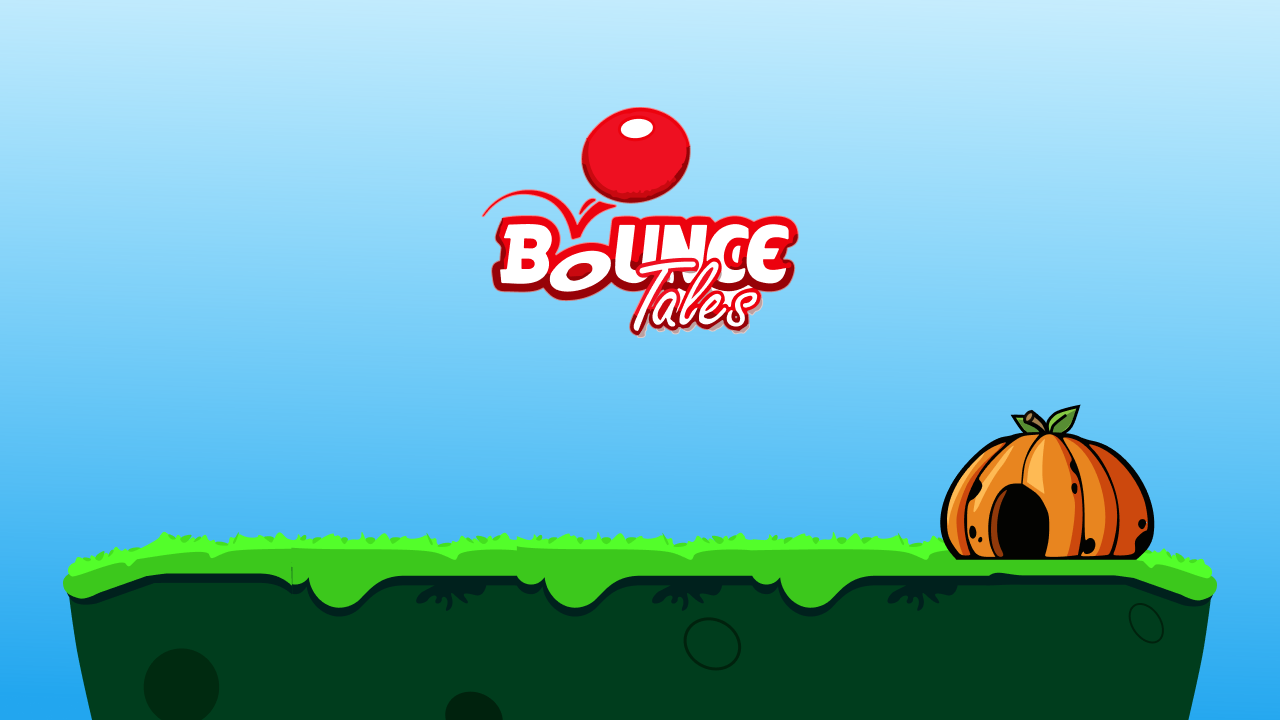
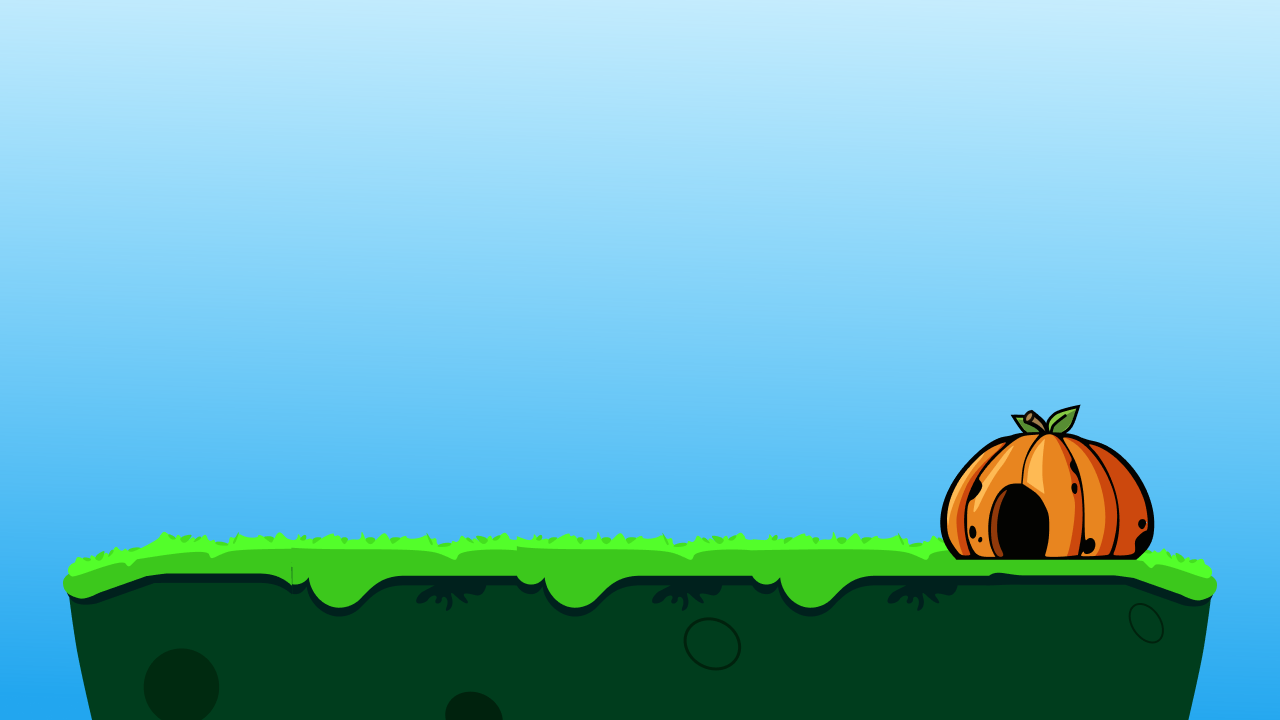
feat: add a Menu screen and making it responsive for mobile

Changed region(s): [[0.375, 0.1528, 0.625, 0.4889]]

diff --git a/src/js/resources.js b/src/js/resources.js
@@ -2,79 +2,81 @@ var resources = [
 
     /* Graphics.
     * @example
-    * { name: "example", type:"image", src: "/bounce_tales/data/img/example.png" },
+    * { name: "example", type:"image", src: "data/img/example.png" },
     */
-    { name: "tileset", type: "image", src: "/bounce_tales/data/img/tileset.png" },
-    { name: "background", type: "image", src: "/bounce_tales/data/img/background.png" },
-    { name: "clouds", type: "image", src: "/bounce_tales/data/img/clouds.png" },
-    { name: "tree", type: "image", src: "/bounce_tales/data/img/tree.png" },
-    { name: "side_tree", type: "image", src: "/bounce_tales/data/img/side_tree.png" },
-    { name: "improved_tileset", type: "image", src: "/bounce_tales/data/img/improved_tileset.png" },
-    { name: "blocks", type: "image", src: "/bounce_tales/data/img/blocks.png" },
-    { name: "bouncing_tales_map1", type: "image", src: "/bounce_tales/data/img/bouncing_tales_map1.png" },
-    { name: "sky_trees", type: "image", src: "/bounce_tales/data/img/sky_trees.png" },
-    { name: "egg", type: "image", src: "/bounce_tales/data/img/egg.png" },
-    { name: "barrier", type: "image", src: "/bounce_tales/data/img/barrier.png" },
-    { name: "title_screen", type: "image", src: "/bounce_tales/data/img/title_screen.png" },
+    { name: "tileset", type: "image", src: "data/img/tileset.png" },
+    { name: "background", type: "image", src: "data/img/background.png" },
+    { name: "clouds", type: "image", src: "data/img/clouds.png" },
+    { name: "tree", type: "image", src: "data/img/tree.png" },
+    { name: "side_tree", type: "image", src: "data/img/side_tree.png" },
+    { name: "improved_tileset", type: "image", src: "data/img/improved_tileset.png" },
+    { name: "blocks", type: "image", src: "data/img/blocks.png" },
+    { name: "bouncing_tales_map1", type: "image", src: "data/img/bouncing_tales_map1.png" },
+    { name: "sky_trees", type: "image", src: "data/img/sky_trees.png" },
+    { name: "egg", type: "image", src: "data/img/egg.png" },
+    { name: "barrier", type: "image", src: "data/img/barrier.png" },
+    { name: "title_screen", type: "image", src: "data/img/title_screen.png" },
+    { name: "mobile_title_screen", type: "image", src: "data/img/mobile_title_screen.png" },
+    { name: "logo", type: "image", src: "data/img/logo.png" },
 
 
 
     /* Maps.
      * @example
-     * { name: "example01", type: "tmx", src: "/bounce_tales/data/map/example01.tmx" },
-     * { name: "example01", type: "tmx", src: "/bounce_tales/data/map/example01.json" },
+     * { name: "example01", type: "tmx", src: "data/map/example01.tmx" },
+     * { name: "example01", type: "tmx", src: "data/map/example01.json" },
      */
-    { name: "level1_map", type: "tmx", src: "/bounce_tales/data/map/level1_map.tmx" },
-    { name: "level2_map", type: "tmx", src: "/bounce_tales/data/map/level1_map.tmx" },
+    { name: "level1_map", type: "tmx", src: "data/map/level1_map.tmx" },
+    { name: "level2_map", type: "tmx", src: "data/map/level1_map.tmx" },
 
 
     /* Tilesets.
      * @example
-     * { name: "example01", type: "tsx", src: "/bounce_tales/data/map/example01.tsx" },
-     * { name: "example01", type: "tsx", src: "/bounce_tales/data/map/example01.json" },
+     * { name: "example01", type: "tsx", src: "data/map/example01.tsx" },
+     * { name: "example01", type: "tsx", src: "data/map/example01.json" },
      */
-    { name: "tileset", type: "tsx", src: "/bounce_tales/data/map/tileset.tsx" },
-    { name: "side_tree", type: "tsx", src: "/bounce_tales/data/map/side_tree.tsx" },
-    { name: "tree", type: "tsx", src: "/bounce_tales/data/map/tree.tsx" },
-    { name: "improved_tileset", type: "tsx", src: "/bounce_tales/data/map/improved_tileset.tsx" },
-    { name: "blocks", type: "tsx", src: "/bounce_tales/data/map/blocks.tsx" },
-    { name: "sky", type: "tsx", src: "/bounce_tales/data/map/sky.tsx" },
-    { name: "bouncing_tales_map1", type: "tsx", src: "/bounce_tales/data/map/bouncing_tales_map1.tsx" },
+    { name: "tileset", type: "tsx", src: "data/map/tileset.tsx" },
+    { name: "side_tree", type: "tsx", src: "data/map/side_tree.tsx" },
+    { name: "tree", type: "tsx", src: "data/map/tree.tsx" },
+    { name: "improved_tileset", type: "tsx", src: "data/map/improved_tileset.tsx" },
+    { name: "blocks", type: "tsx", src: "data/map/blocks.tsx" },
+    { name: "sky", type: "tsx", src: "data/map/sky.tsx" },
+    { name: "bouncing_tales_map1", type: "tsx", src: "data/map/bouncing_tales_map1.tsx" },
 
 
 
     /* Atlases
     * @example
-    * { name: "example_tps", type: "json", src: "/bounce_tales/data/img/example_tps.json" },
+    * { name: "example_tps", type: "json", src: "data/img/example_tps.json" },
     */
     // texturePacker
-    { name: "bounce", type: "image", src: "/bounce_tales/data/img/bounce.png" },
-    { name: "bounce", type: "json", src: "/bounce_tales/data/img/bounce.json" },
-    { name: "controlsTexture", type: "image", src: "/bounce_tales/data/img/controlsTexture.png" },
-    { name: "controlsTexture", type: "json", src: "/bounce_tales/data/img/controlsTexture.json" },
-    { name: "switch", type: "image", src: "/bounce_tales/data/img/switch.png" },
-    { name: "switch", type: "json", src: "/bounce_tales/data/img/switch.json" },
-    { name: "machine", type: "image", src: "/bounce_tales/data/img/machine.png" },
-    { name: "machine", type: "json", src: "/bounce_tales/data/img/machine.json" },
-    { name: "topo", type: "image", src: "/bounce_tales/data/img/topo.png" },
-    { name: "topo", type: "json", src: "/bounce_tales/data/img/topo.json" },
-    { name: "topo_ground", type: "image", src: "/bounce_tales/data/img/topo_ground.png" },
-    { name: "topo_ground", type: "json", src: "/bounce_tales/data/img/topo_ground.json" },
-    { name: "egg", type: "image", src: "/bounce_tales/data/img/egg.png" },
-    { name: "egg", type: "json", src: "/bounce_tales/data/img/egg.json" },
+    { name: "bounce", type: "image", src: "data/img/bounce.png" },
+    { name: "bounce", type: "json", src: "data/img/bounce.json" },
+    { name: "controlsTexture", type: "image", src: "data/img/controlsTexture.png" },
+    { name: "controlsTexture", type: "json", src: "data/img/controlsTexture.json" },
+    { name: "switch", type: "image", src: "data/img/switch.png" },
+    { name: "switch", type: "json", src: "data/img/switch.json" },
+    { name: "machine", type: "image", src: "data/img/machine.png" },
+    { name: "machine", type: "json", src: "data/img/machine.json" },
+    { name: "topo", type: "image", src: "data/img/topo.png" },
+    { name: "topo", type: "json", src: "data/img/topo.json" },
+    { name: "topo_ground", type: "image", src: "data/img/topo_ground.png" },
+    { name: "topo_ground", type: "json", src: "data/img/topo_ground.json" },
+    { name: "egg", type: "image", src: "data/img/egg.png" },
+    { name: "egg", type: "json", src: "data/img/egg.json" },
 
 
     /* Background music.
     * @example
-    * { name: "example_bgm", type: "audio", src: "/bounce_tales/data/bgm/" },
+    * { name: "example_bgm", type: "audio", src: "data/bgm/" },
     */
-    { name: "start", type: "audio", src: "/bounce_tales/data/bgm/" },
-    { name: "main", type: "audio", src: "/bounce_tales/data/bgm/" },
-    { name: "win", type: "audio", src: "/bounce_tales/data/bgm/" },
+    { name: "start", type: "audio", src: "data/bgm/" },
+    { name: "main", type: "audio", src: "data/bgm/" },
+    { name: "win", type: "audio", src: "data/bgm/" },
 
 
-    { name: "PressStart2P", type:"image", src: "/bounce_tales/data/fnt/PressStart2P.png" },
-    { name: "PressStart2P", type:"binary", src: "/bounce_tales/data/fnt/PressStart2P.fnt"}
+    { name: "PressStart2P", type:"image", src: "data/fnt/PressStart2P.png" },
+    { name: "PressStart2P", type:"binary", src: "data/fnt/PressStart2P.fnt"}
 
 ];
 

diff --git a/src/js/screens/menu.js b/src/js/screens/menu.js
@@ -1,19 +1,115 @@
 import * as me from 'melonjs';
+import game from '../game.js';
 
-class MenuScreen extends me.Stage {
-    onResetEvent() {
 
-		// new sprite for the title screen, position at the center of the game viewport
-		var backgroundImage = new me.Sprite(me.game.viewport.width / 2, me.game.viewport.height / 2, {
-				image: me.loader.getImage('title_screen'),
+class NewGameText extends me.BitmapText {
+	/**
+	 * constructor
+	 */
+	constructor(x, y) {
+		// call the super constructor
+		super(
+			x,
+			y,
+			{ font: "PressStart2P", textAlign: 'center', size: 1.5, fillStyle: "white", text: "> New Game " }
+		);
+
+		me.input.registerPointerEvent(
+			"pointerdown",
+			this,
+			function () {
+				// Handle the click event here
+				console.log("Text Clicked!");
 			}
 		);
+	}
+
+	onClick(/* event */) {
+		console.log("clicked !!");
+	}
+
+}
+
+
+class GameStartControl extends me.UISpriteElement {
+    /**
+     * constructor
+     */
+    constructor(x, y) {
+        super(x, y, {
+            image: game.controlsTexture,
+            // region : "shadedDark13.png" // ON by default
+            region : "start.png"
+        });
+        this.setOpacity(0.8);
+    }
+
+    /**
+     * function called when the pointer is over the object
+     */
+    onOver(/* event */) {
+        this.setOpacity(1.0);
+    }
+
+    /**
+     * function called when the pointer is leaving the object area
+     */
+    onOut(/* event */) {
+        this.setOpacity(0.8);
+    }
+
+    /**
+     * function called when the object is clicked on
+     */
+    onClick(/* event */) {
+		me.state.change(me.state.PLAY);
+		return false;
+    }
+};
+
+
+
+
+
+
+class MenuScreen extends me.Stage {
+	onResetEvent() {
+
+
+		if (me.game.viewport.width < 500) {
+			// new sprite for the title screen, position at the center of the game viewport
+			var backgroundImage = new me.Sprite(me.game.viewport.width / 2, me.game.viewport.height / 2, {
+				image: me.loader.getImage('mobile_title_screen'),
+			});
+			var text = new NewGameText(me.game.viewport.width / 2, (me.game.viewport.height / 2) - 50);
+			var start = new GameStartControl(me.game.viewport.width / 2, (me.game.viewport.height / 2) + 50)
+		} else {
+			// new sprite for the title screen, position at the center of the game viewport
+			var backgroundImage = new me.Sprite(me.game.viewport.width / 2, me.game.viewport.height / 2, {
+				image: me.loader.getImage('title_screen'),
+			});
+			var text = new NewGameText(me.game.viewport.width / 2, (me.game.viewport.height / 2) - 50);
+			var start = new GameStartControl(me.game.viewport.width / 2, (me.game.viewport.height / 2) + 50)
+		}
+
+
+		var logo = new me.Sprite(me.game.viewport.width / 2, 100, {
+			image: me.loader.getImage('logo'),
+		});
+
+
+
+
+
+
 
 		// scale to fit with the viewport size
 		backgroundImage.scale(me.game.viewport.width / backgroundImage.width, me.game.viewport.height / backgroundImage.height);
-
 		// add to the world container
 		me.game.world.addChild(backgroundImage, 1);
+		me.game.world.addChild(logo, 2);
+		me.game.world.addChild(text, 3);
+		me.game.world.addChild(start,4);
 
 		// me.game.world.addChild(new TitleText());
 
@@ -21,13 +117,15 @@ class MenuScreen extends me.Stage {
 		me.input.bindKey(me.input.KEY.ENTER, "enter", true);
 		me.input.bindPointer(me.input.pointer.LEFT, me.input.KEY.ENTER);
 
-        
+		me.audio.playTrack("start");
+
 	}
 
 	/**
 	 * action to perform when leaving this screen (state change)
 	 */
 	onDestroyEvent() {
+		me.audio.stopTrack("start");
 		me.input.unbindKey(me.input.KEY.ENTER);
 		me.input.unbindPointer(me.input.pointer.LEFT);
 		me.event.off(me.event.KEYDOWN, this.handler);

diff --git a/src/index.js b/src/index.js
@@ -12,8 +12,6 @@ import topoGroundEntity from './js/entities/topo_ground.js';
 import TopoEggEntity from './js/entities/topo_egg.js';
 import MenuScreen from './js/screens/menu.js';
 import EndGameEntity from './js/entities/endlevel1.js';
-import { DebugPanelPlugin } from "@melonjs/debug-plugin";
-
 
 /**
  *
@@ -26,9 +24,6 @@ function onload() {
         alert("Your browser does not support HTML5 canvas.");
         return;
     }
-
-    // register the debug plugin
-    me.plugin.register(DebugPanelPlugin, "debugPanel");
 
     // initialize the "sound engine"
     me.audio.init("ogg,mp3");
@@ -53,13 +48,13 @@ function onload() {
         // register our objects entity in the object pool
         me.pool.register("mainPlayer", PlayerEntity);
         me.pool.register("BarrierEntity", BarrierEntity);
-        me.pool.register("switchEntity", switchEntity, true);
-        me.pool.register("machineEntity", machineEntity, true);
-        me.pool.register("topoEntity", topoEntity, true);
+        me.pool.register("switchEntity", switchEntity);
+        me.pool.register("machineEntity", machineEntity);
+        me.pool.register("topoEntity", topoEntity);
         me.pool.register("topoGroundEntity", topoGroundEntity);
         me.pool.register("EggTopoEntity", TopoEggEntity);
         me.pool.register("EndGameEntity", EndGameEntity);
-        me.pool.register("EggEntity", EggEntity, true);
+        me.pool.register("EggEntity", EggEntity);
 
 
         // load the texture atlas file
@@ -103,9 +98,6 @@ function onload() {
 
 
         me.state.change(me.state.MENU);
-        setTimeout(() => {
-            me.state.change(me.state.PLAY);
-        }, 1000)
     });
 }
 

diff --git a/src/js/entities/HUD.js b/src/js/entities/HUD.js
@@ -63,13 +63,14 @@ class ScoreItem extends me.BitmapText {
     constructor(x, y) {
         // call the super constructor
         super(
-            me.game.viewport.width  + x,
-            me.game.viewport.height + y,
+            x,
+            y,
             {
                 font : "PressStart2P",
                 textAlign : "right",
-                textBaseline : "bottom",
-                text : "0"
+                textBaseline : "top",
+                text : "0/30",
+                size:1,
             }
         );
 
@@ -92,7 +93,7 @@ class ScoreItem extends me.BitmapText {
     update( dt ) {
         if (this.score !== game.data.score) {
             this.score = game.data.score;
-            this.setText(this.score);
+            this.setText(`${this.score}/30`);
             this.isDirty = false;
         }
         return super.update(dt);
@@ -121,7 +122,7 @@ class UIContainer extends me.Container {
         this.name = "HUD";
 
         // add our child score object at position
-        this.addChild(new ScoreItem(-10, -10));
+        this.addChild(new ScoreItem(me.game.viewport.width -40, 40));
 
         // add our audio control object
         this.addChild(new AudioControl(36, 56));

diff --git a/src/js/entities/topo_ground.js b/src/js/entities/topo_ground.js
@@ -36,7 +36,7 @@ export class topoGroundEntity extends me.Entity {
         }
 
         // walking animatin
-        this.renderable.addAnimation("moving", [{ name: "topo_ground_1.png", delay: 500 }, { name: "topo_ground_3.png", delay: 1000 }, { name: "topo_ground_2.png", delay: 500 }]);
+        this.renderable.addAnimation("moving", [{ name: "topo_ground_1.png", delay: 200 }, { name: "topo_ground_3.png", delay: 500 }, { name: "topo_ground_2.png", delay: 200 }]);
         // dead animatin
         this.renderable.addAnimation("stoped", [{ name: "topo_ground_1.png", delay: 100 }]);
 

diff --git a/src/js/entities/endlevel1.js b/src/js/entities/endlevel1.js
@@ -34,12 +34,8 @@ class EndGameEntity extends me.Entity {
     // an object is touched by something (here collected)
     onCollision(response, other) {
         // do something when collected
-        if(game.data.level1!=="completed"){
-            setTimeout(()=>{
-                game.data.level1 = "completed"
-                me.state.change(me.state.MENU);
-            },500);
-        }
+        me.state.change(me.state.MENU);
+        game.data.level1 = "completed";
         return false;
     }
 };

diff --git a/src/js/entities/pathEnemyEntity.js b/src/js/entities/pathEnemyEntity.js
@@ -131,9 +131,9 @@ class PathEnemyEntity extends me.Entity {
                 speed: 3
             });
 
+            game.topo_ground_existance = false;
             me.game.world.addChild(emitter, this.pos.z);
             me.game.world.removeChild(this);
-            game.topo_ground_existance = false;
             emitter.burstParticles();
 
             //     // dead sfx

diff --git a/src/js/screens/play.js b/src/js/screens/play.js
@@ -35,6 +35,8 @@ class PlayScreen extends me.Stage {
 
         // remove the HUD from the game world
         me.game.world.removeChild(this.HUD);
+        this.HUD = undefined;
+        this.data.score = 0;
 
         // remove the joypad if initially added
         if (this.virtualJoypad && me.game.world.hasChild(this.virtualJoypad)) {
